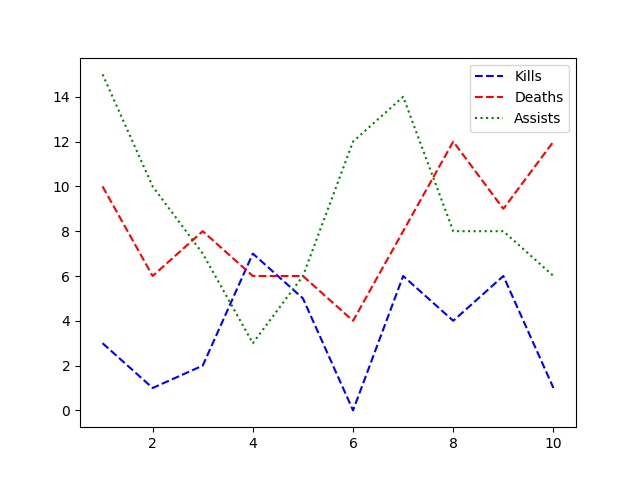
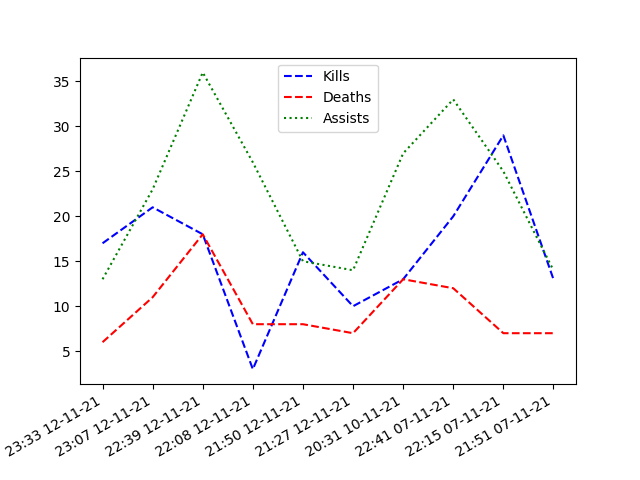
:zap: New xlabel for kda chat and updated vego name for tracker

diff --git a/src/cogs/riot_api_utilities/vego_tracker.py b/src/cogs/riot_api_utilities/vego_tracker.py
@@ -28,7 +28,7 @@ class Tracker(commands.Cog):
 
     @staticmethod
     def _convert_unix_timestamp(timestamp: int) -> str:
-        return datetime.utcfromtimestamp(timestamp).strftime("%H:%M %d-%m-%Y")
+        return datetime.utcfromtimestamp(timestamp / 1000).strftime("%H:%M %d-%m-%y")
 
     def __generate_summoner_embed(self, summoner: str) -> discord.Embed:
         try:
@@ -36,7 +36,7 @@ class Tracker(commands.Cog):
         except Exception as err:
             return
         match, _ = self.api.summoners_last_game(summoner)
-        match_timestamp = self._convert_unix_timestamp(match.info.game_creation / 1000)
+        match_timestamp = self._convert_unix_timestamp(match.info.game_creation)
         game_mode = match.info.game_mode
         damage_chart = []
         damage_taken_chart = []
@@ -208,7 +208,7 @@ Informacje ofensywne```
 
             if not embed or not game_data:
                 if last_message_embed_title == "__Tracker__" or not last_message:
-                    summonr_embed = self.__generate_summoner_embed("vegø")
+                    summonr_embed = self.__generate_summoner_embed("végø")
                     await channel.send(embed=summonr_embed)
                 else:
                     break
@@ -239,7 +239,7 @@ Informacje ofensywne```
         summoner = self.api.summoner_search(name)
         matches, _ = self.api.get_summoner_games(name)
         kills, deaths, assists = [], [], []
-        games = [x + 1 for x in range(10)]
+        matches_dates = []
 
         for match in matches:
             [
@@ -252,12 +252,17 @@ Informacje ofensywne```
                 if participant.puuid == summoner.puuid
             ]
 
-        plt.plot(games, kills[::-1], "b--", label="Kills")
-        plt.plot(games, deaths[::-1], "r--", label="Deaths")
-        plt.plot(games, assists[::-1], "g:", label="Assists")
-        plt.legend()
+            matches_dates.append(self._convert_unix_timestamp(match.info.game_creation))
+
+        if kills and deaths and assists:
+            plt.plot(matches_dates, kills[::-1], "b--", label="Kills")
+            plt.plot(matches_dates, deaths[::-1], "r--", label="Deaths")
+            plt.plot(matches_dates, assists[::-1], "g:", label="Assists")
+            plt.legend()
 
         figure = plt.gcf()
+        # Rotate x labels by 30 degrees
+        figure.autofmt_xdate(ha="right")
 
         pil_image = self.__figure_to_image(figure)
         pil_image.save("test.png")

diff --git a/src/main.py b/src/main.py
@@ -8,8 +8,8 @@ load_dotenv()
 
 TOKEN = os.getenv("DISCORD_TOKEN")
 
-bot = commands.Bot(command_prefix="Czerwony ", case_insensitive=False)
-# bot = commands.Bot(command_prefix="Bialy ", case_insensitive=False)
+# bot = commands.Bot(command_prefix="Czerwony ", case_insensitive=False)
+bot = commands.Bot(command_prefix="Bialy ", case_insensitive=False)
 
 bot.load_extension("cogs.utils.weather")
 bot.load_extension("cogs.steam.steam")
